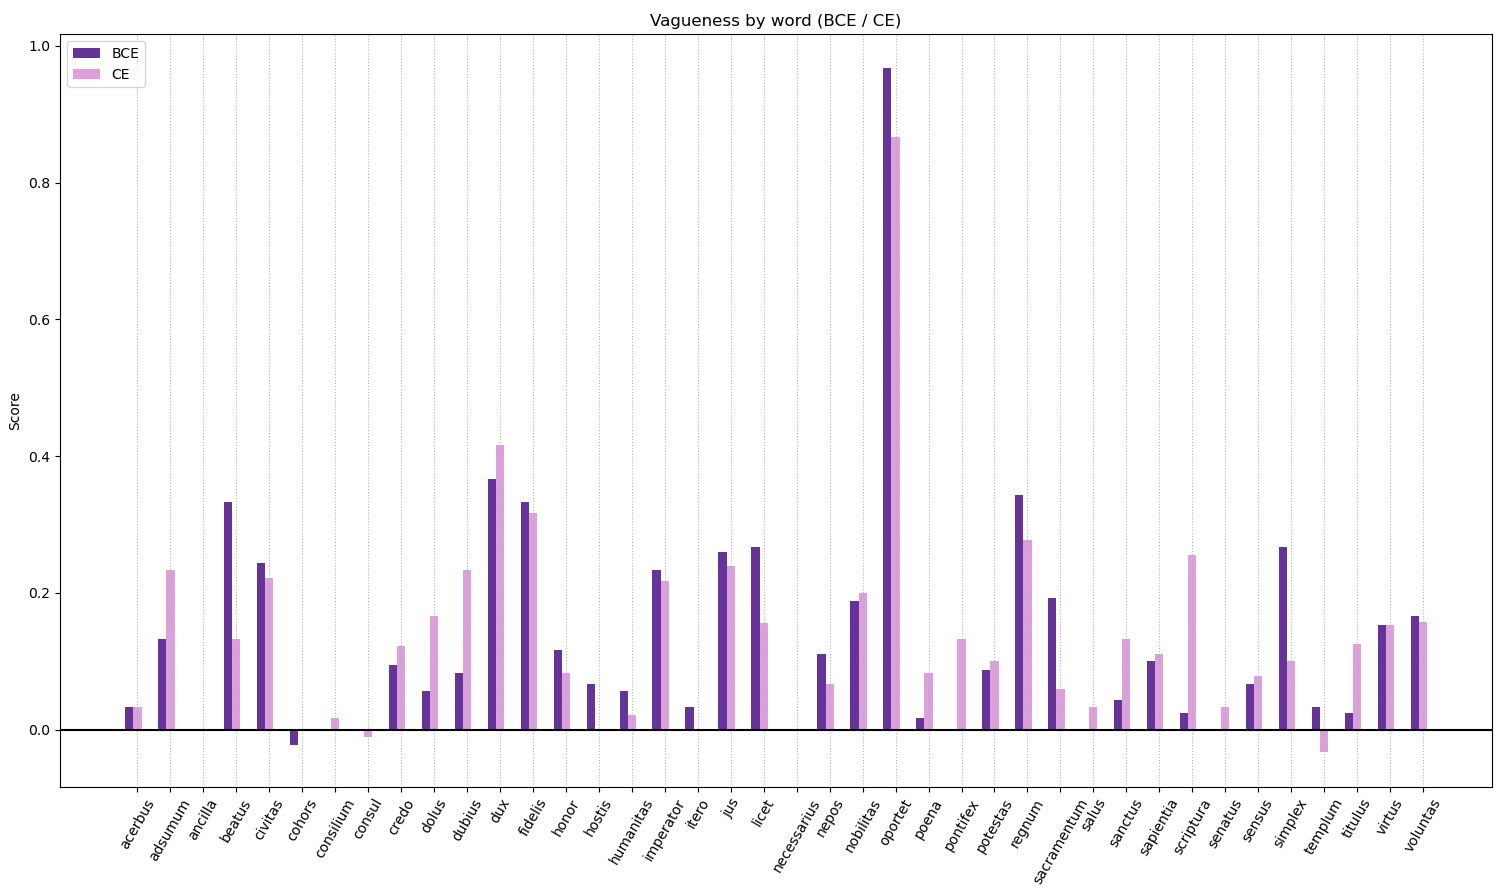
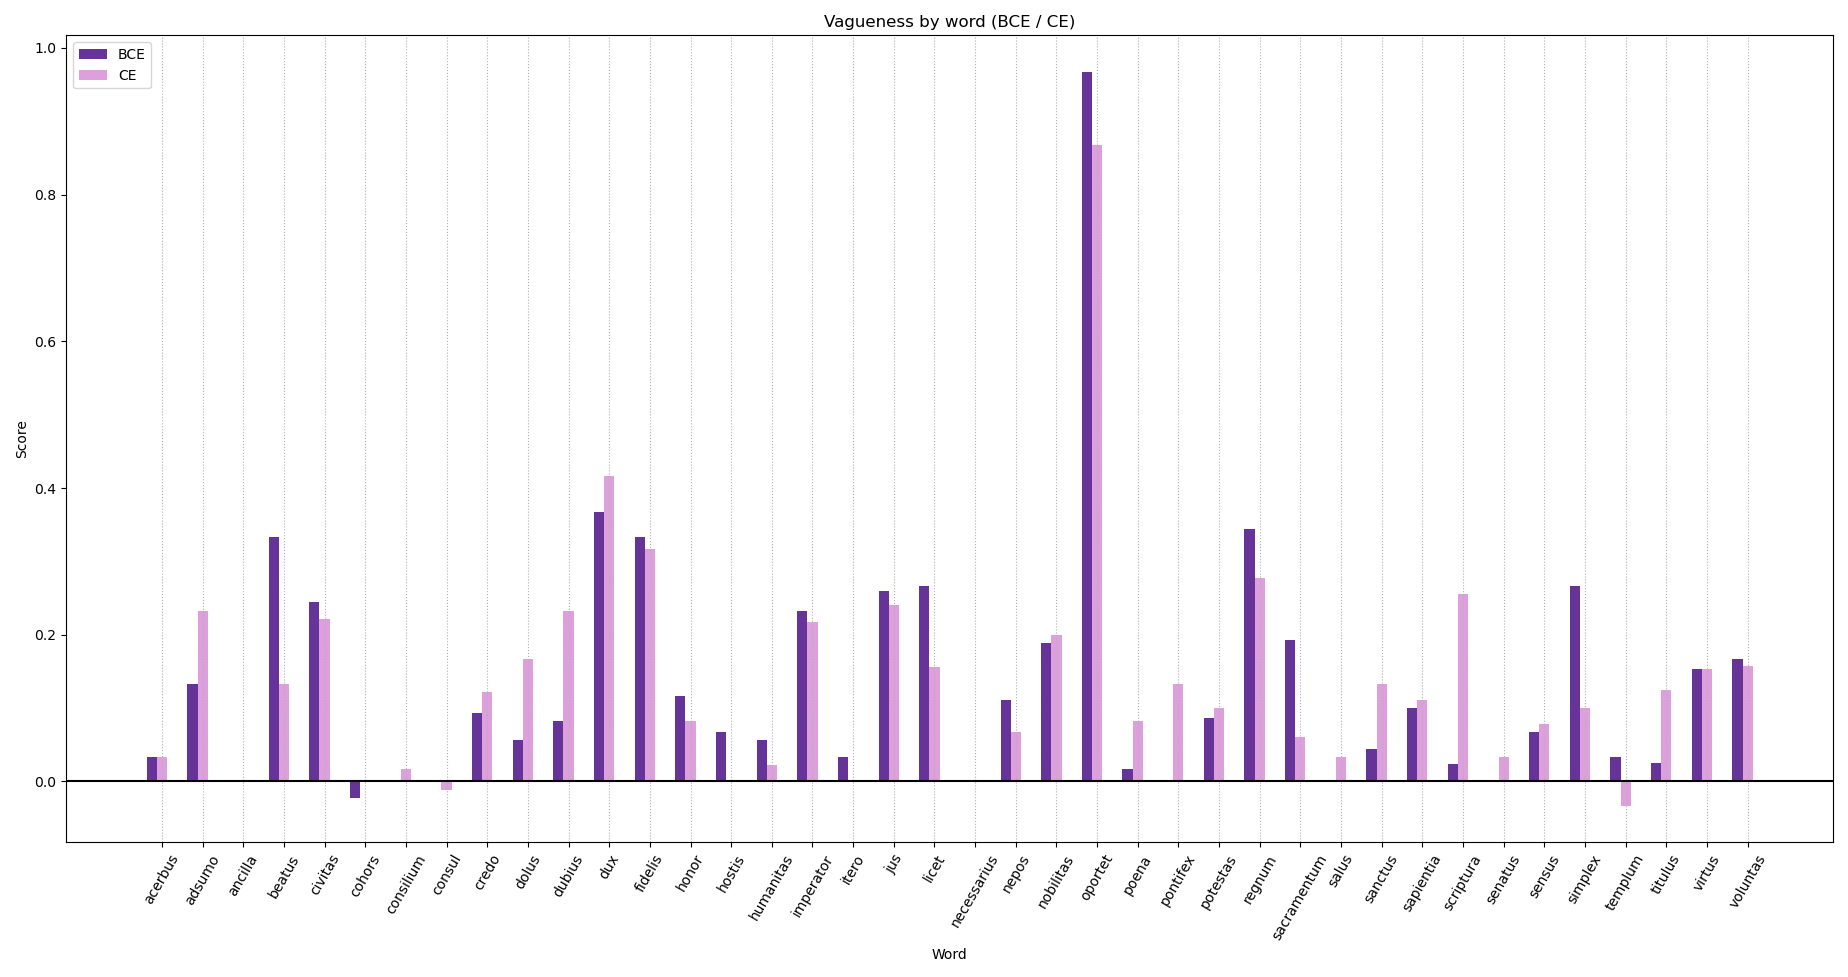
corrected typo (adsumo)

diff --git a/vagueness/vagueness.py b/vagueness/vagueness.py
@@ -4,15 +4,12 @@ import sys
 import statistics
 
 indir = 'annotations'
-odir = 'counts'
 out_word = 'ratios_by_word.tsv'
 out_source_nbr = 'ratios_by_source_nbr.tsv'
 out_meaning_nbr_ave = 'ratios_by_meaning_nbr_ave.tsv'
 out_meaning_nbr_med = 'ratios_by_meaning_nbr_median.tsv'
 out_pattern = 'ratios_by_pattern.tsv'
 
-if not os.path.exists(odir):
-    os.makedirs(odir)
 
 by_source_nbr = {}
 by_meaning_nbr = {}

diff --git a/vagueness/scatter_plot.py b/vagueness/scatter_plot.py
@@ -8,15 +8,13 @@ for column in inputf:
     columns.append(inputf[column].tolist())
 words = columns[0]
 alpha = columns[1]
-beta = columns[2]
 
 
 fig = plt.figure()
 ax1 = fig.add_subplot(111)
 
-#definition of both series
+#series definition
 ax1.scatter(words, alpha, c="rebeccapurple")
-#ax1.scatter(words, beta, c="red", label="beta")
 
 #grid lines
 ax1.xaxis.grid(True, linestyle=':')

diff --git a/vagueness/bar_plot_chron.py b/vagueness/bar_plot_chron.py
@@ -42,7 +42,7 @@ plt.legend(loc='upper left')
 
 
 outdir = 'charts'
-fname = os.path.join(outdir, 'chronology.png')
+fname = os.path.join(outdir, 'overview_chronologic.png')
 plt.savefig(fname, dpi=500, facecolor='w', edgecolor='w',
         orientation='portrait', format='png',
         transparent=False, bbox_inches=None, pad_inches=0.1, metadata=None)

diff --git a/vagueness/README.md b/vagueness/README.md
@@ -5,7 +5,6 @@
 ### Folders
 - `annotations`: TSV file with the annotation of each lemma. The header contains
   the derivation pattern. The first column shows the era of each annotation context (BC/CE).
-- `counts`: ancillary folder created with `vagueness.py` that has the number of annotations type (0, 1, 2, 3, 4) by word.
 - `charts`: plots in PNG format
 
 ### Code
